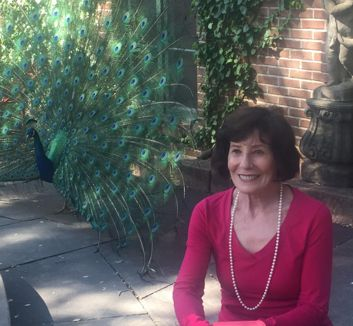
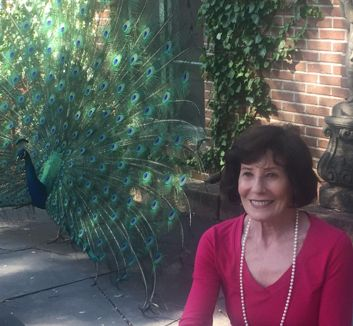
Updated portraits to leave more space at the bottom, and pushed the tile captions down

diff --git a/assets/css/main.css b/assets/css/main.css
@@ -3456,7 +3456,7 @@ body.is-menu-visible #menu .close {
 
 /********* Seiko and Kaisen CSS *********/
 #banner{
-	background: url(../../images/banner.png) no-repeat center center fixed; 
+	background: url(../../images/banner.png) no-repeat center center fixed;
 	background-size: cover;
 	min-height: 70%;
 	min-width: 1024px;
@@ -3467,7 +3467,7 @@ body.is-menu-visible #menu .close {
 	left: 0;
 	z-index: -3;
 }
-	
+
 /* index title, name, date */
 div.home strong{
 	position: absolute;
@@ -3492,7 +3492,11 @@ h1.pj_title{
 
 /* title position inside image */
 .tiles article>a {
-	height: 160%;
+	height: 180%;
+}
+
+.tiles article>a .content> :last-child {
+	margin-bottom: 50px;
 }
 
 /* auther's image on content page */
